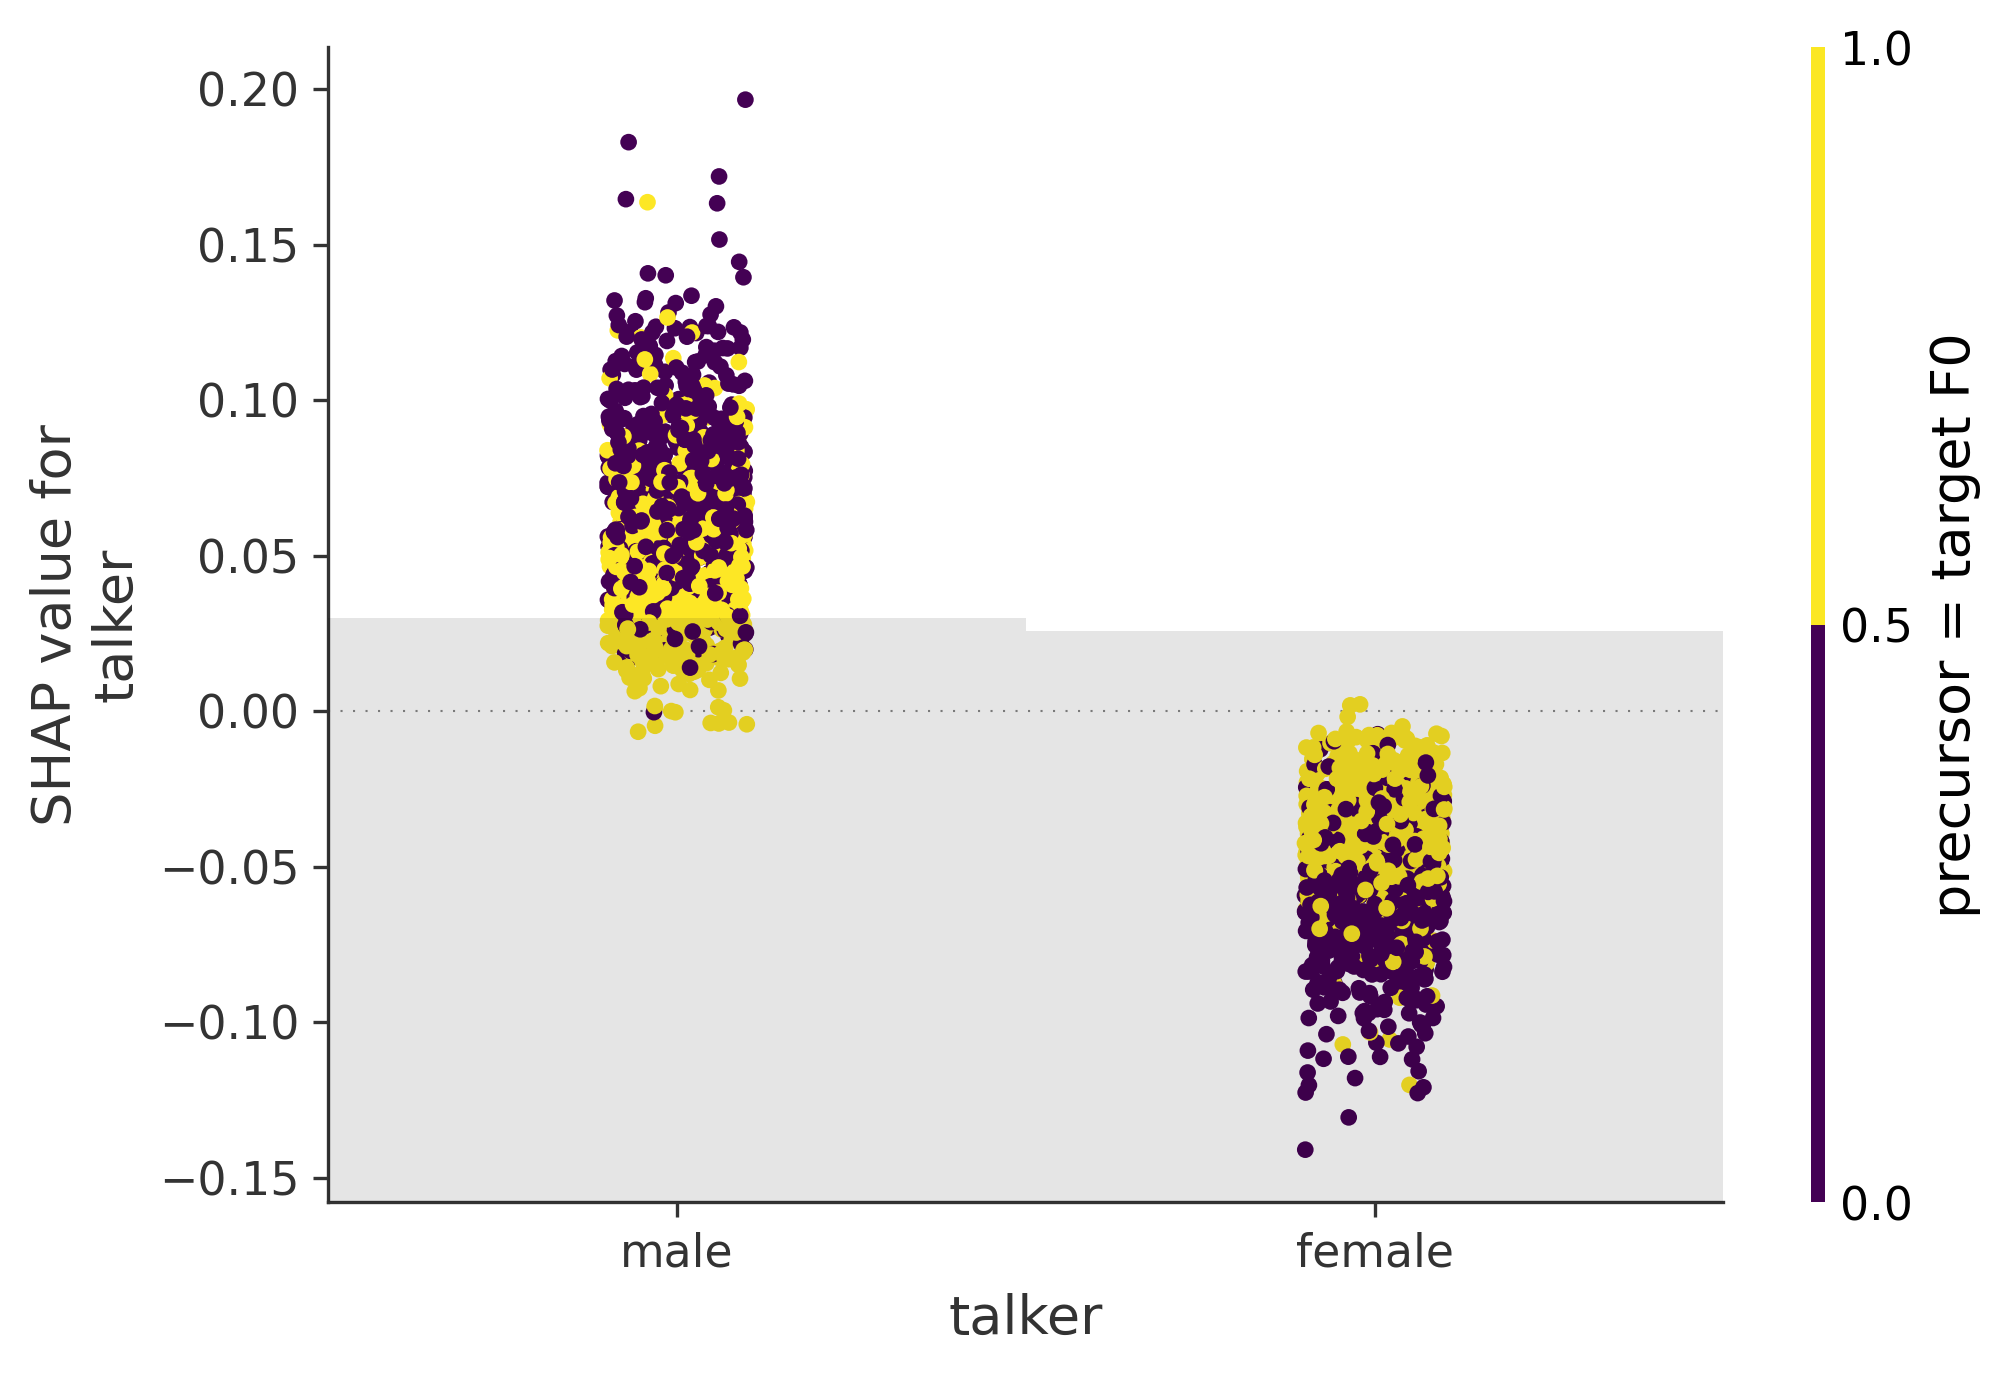
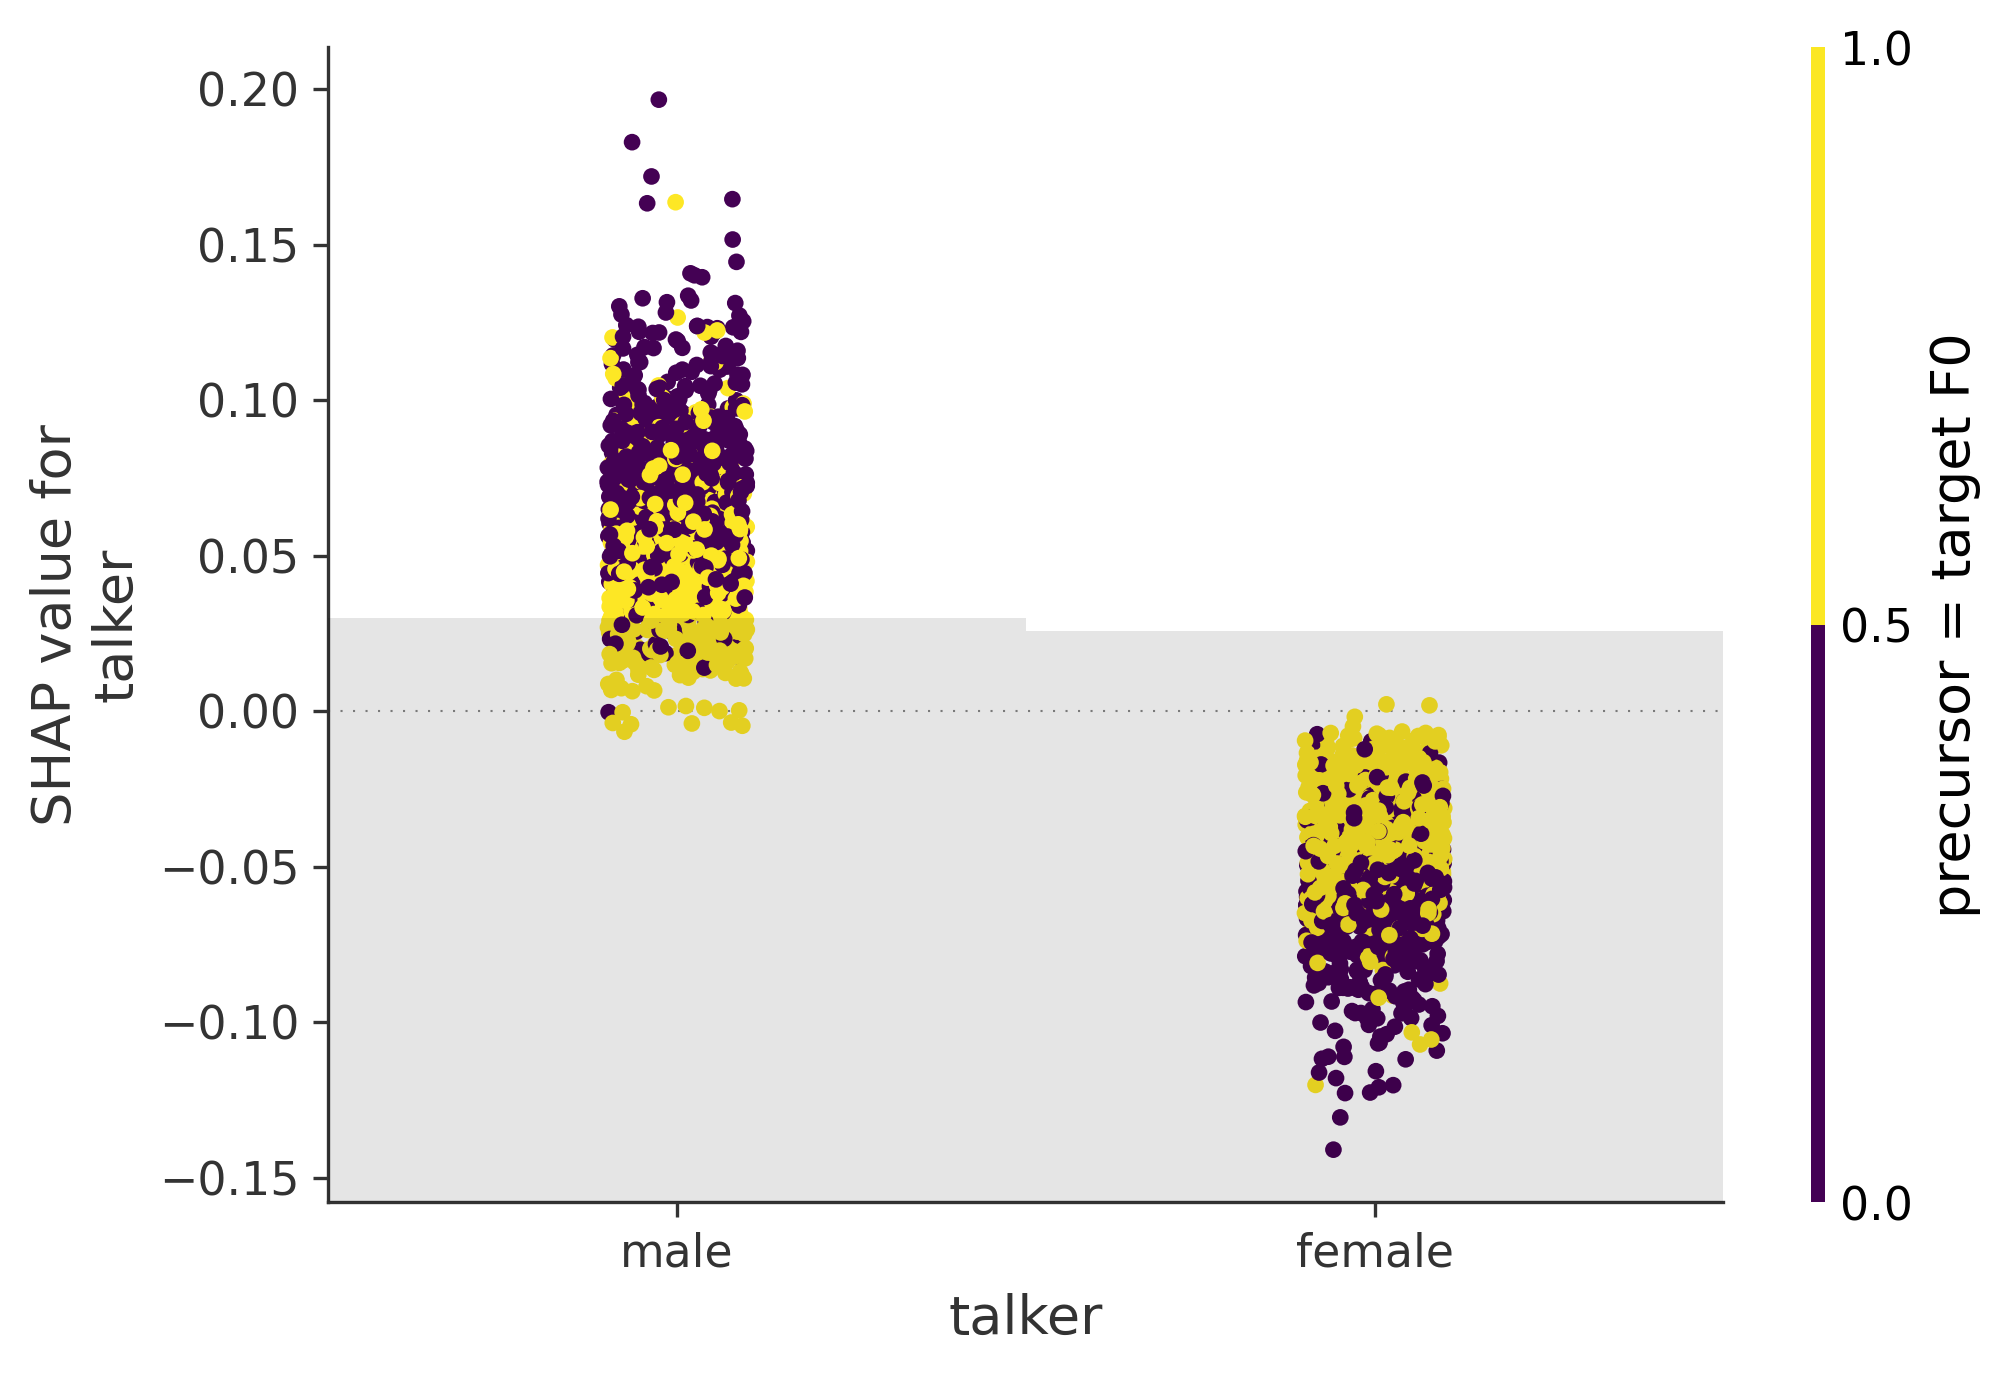
adding individual partial dependency plot

Changed region(s): [[0.2775, 0.1222, 0.4008, 0.5498], [0.6474, 0.4887, 0.7399, 0.8553]]

diff --git a/models/reactiontimemodel.py b/models/reactiontimemodel.py
@@ -324,7 +324,7 @@ def runlgbreleasetimes(X, y, paramsinput=None, ferret_as_feature = False, one_fe
     plt.savefig(fig_savedir / 'talker_vs_precursorequaltargF0.png', dpi=300, bbox_inches='tight')
 
 
-    shap.plots.scatter(shap_values2[:, "precursor = target F0"], color=shap_values2[:, "ferret ID"], show=True, cmap = matplotlib.colormaps[cmapname])
+    shap.plots.scatter(shap_values2[:, "ferret ID"], color=shap_values2[:, "precursor = target F0"], show=True, cmap = matplotlib.colormaps[cmapname])
 
     fig, ax = plt.subplots(figsize=(10, 10))
     shap.plots.scatter(shap_values2[:, "talker"], color=shap_values2[:, "target F0"], show=False,
